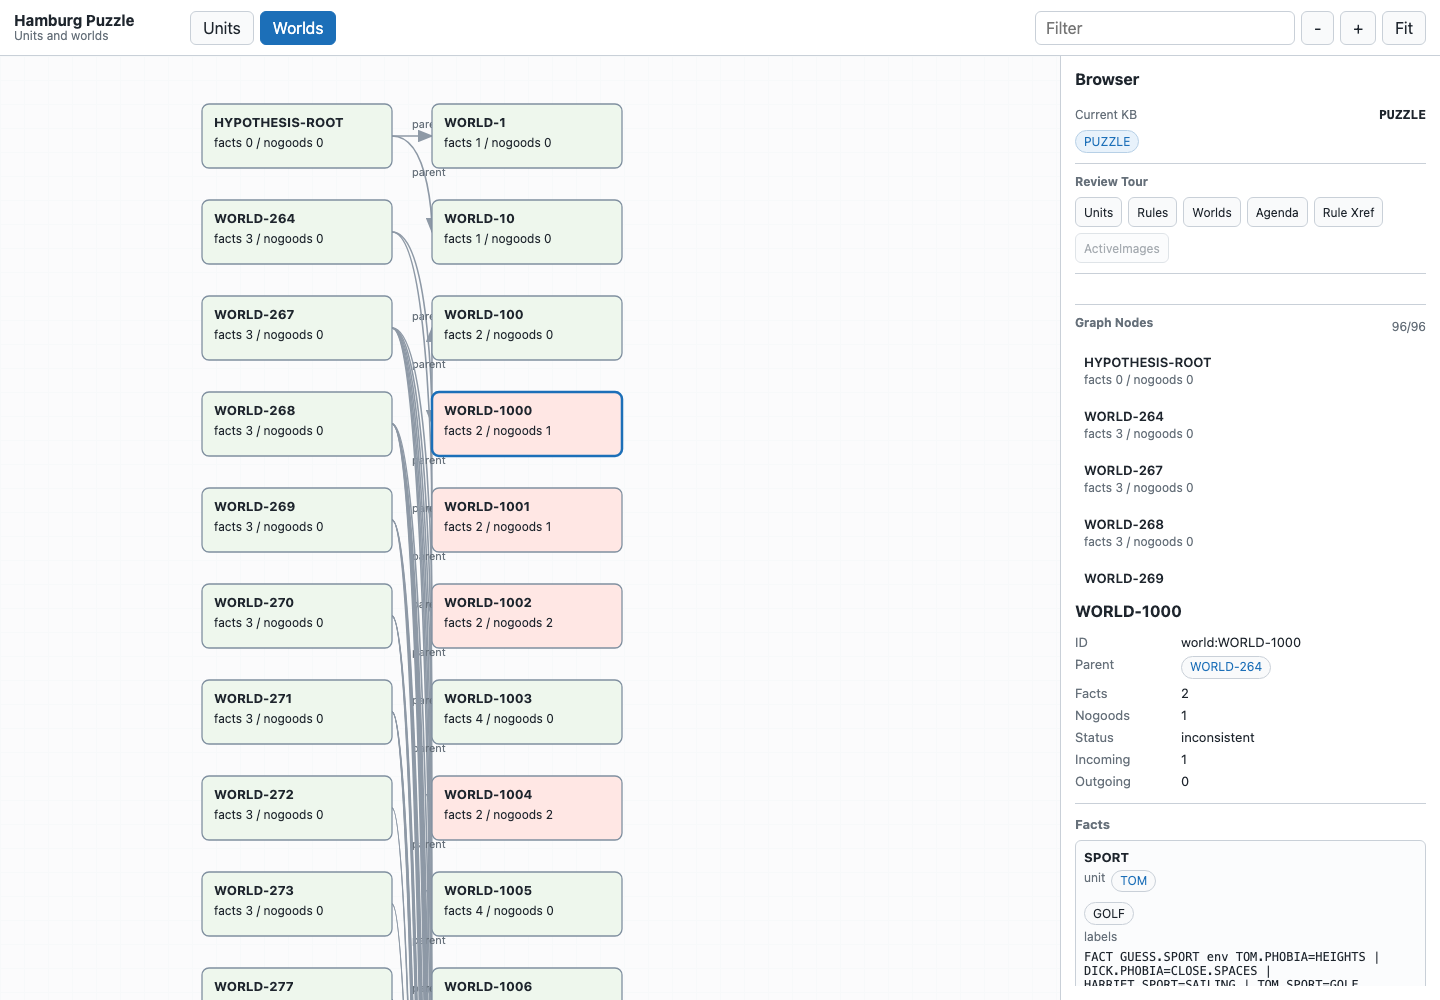
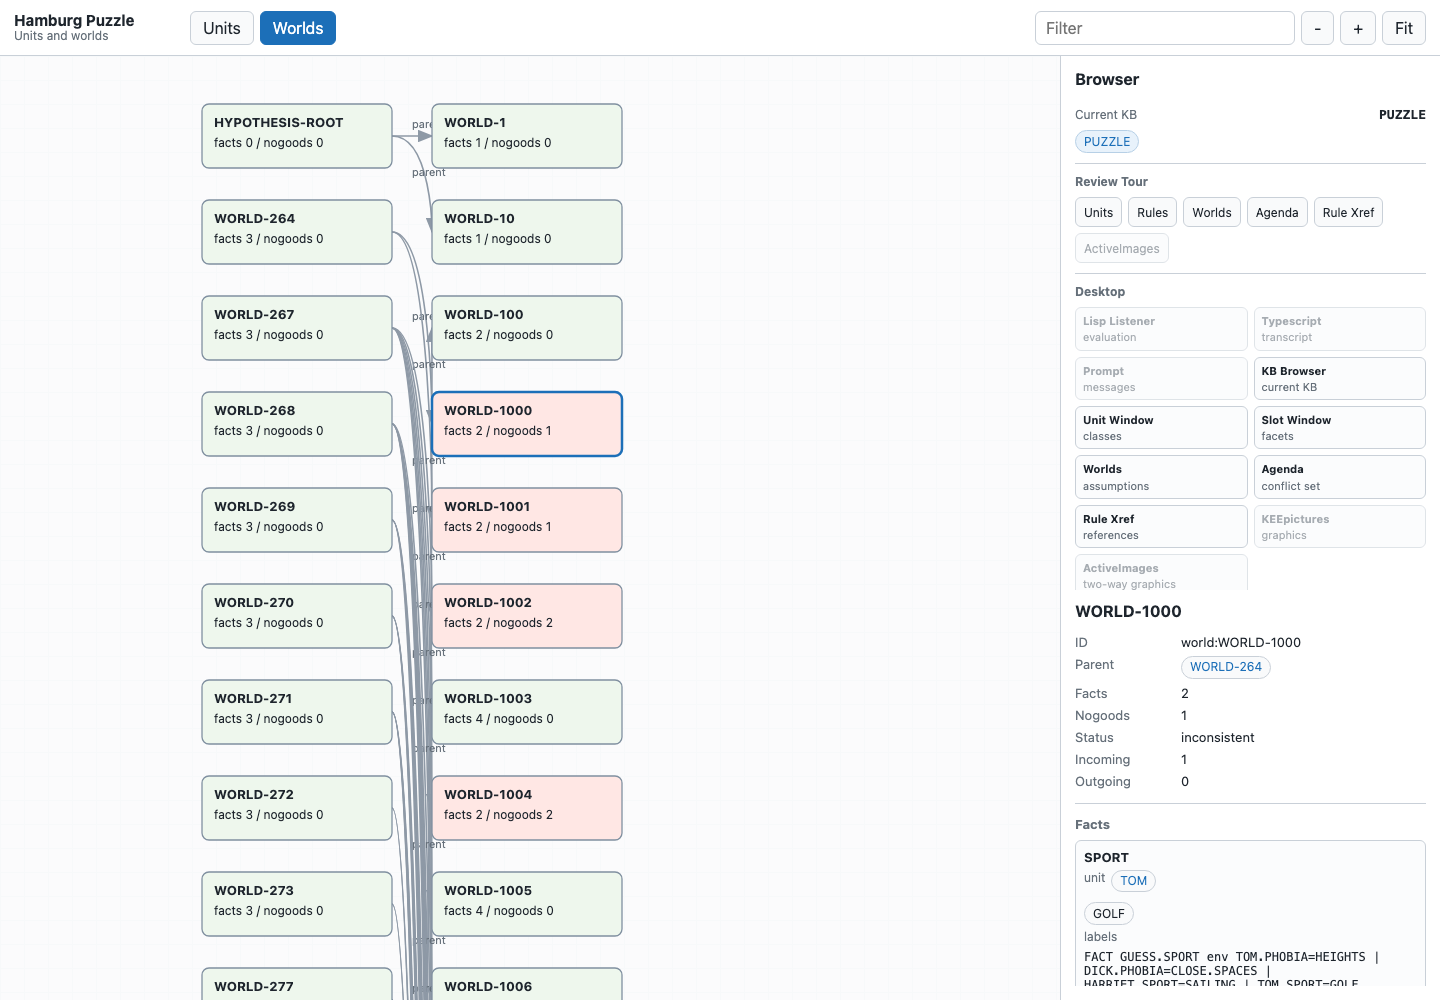
Surface KEE desktop vocabulary in viewer

Changed region(s): [[0.75, 0.279, 0.8438, 0.589], [0.875, 0.31, 0.9375, 0.558], [0.9688, 0.31, 1.0, 0.341]]

diff --git a/test/viewer-tour.spec.js b/test/viewer-tour.spec.js
@@ -9,6 +9,9 @@ test('review tour jumps to reconstructed KEE surfaces', async ({ page }) => {
   await page.goto(pathToFileURL(viewerHtml).href);
 
   await expect(page.locator('#review-tour')).toBeVisible();
+  await expect(page.locator('#desktop-roster')).toContainText('Lisp Listener');
+  await expect(page.locator('#desktop-roster')).toContainText('KEEpictures');
+  await expect(page.locator('[data-desktop-tour="units"]').first()).toBeEnabled();
   await expect(page.locator('[data-tab="worlds"]')).toHaveClass(/active/);
   await expect(page.locator('.inspector-pane h2')).toHaveText(/WORLD-/);
 
@@ -38,4 +41,5 @@ test('review tour jumps to reconstructed KEE surfaces', async ({ page }) => {
   await expect(page.locator('.inspector-pane')).toContainText('Rule Xref');
 
   await expect(page.locator('[data-review-tour="active-images"]')).toBeDisabled();
+  await expect(page.locator('[data-desktop-tour="active-images"]')).toBeDisabled();
 });

diff --git a/docs/demo.md b/docs/demo.md
@@ -10,7 +10,8 @@ selected. This is intentional: it gives reviewers a concrete first view of
 KEEworlds-style branching, assumptions, support labels, nogoods, and rule trace
 explanations instead of a blank or generic hierarchy view. The Browser pane also
 includes Review Tour controls that jump to representative units, rules, worlds,
-agenda traces, rule cross-references, and ActiveImages when available.
+agenda traces, rule cross-references, and ActiveImages when available. It also
+shows a compact Desktop roster using recovered KEE window vocabulary.
 
 ## Run
 

diff --git a/docs/gui-reconstruction.md b/docs/gui-reconstruction.md
@@ -203,6 +203,9 @@ The reconstruction now has a first trace layer for rule/world debugging:
 - the browser pane includes Review Tour controls that jump to representative
   units, rules, worlds, agenda traces, rule cross-references, and ActiveImages
   when available
+- the browser pane includes a compact Desktop roster using recovered window
+  vocabulary such as Lisp Listener, Typescript, Prompt, KEEpictures, and
+  ActiveImages
 - trace panes can filter by event kind and selected-node scope
 - trace panes can also isolate method, rule, world, and problem event families
 - trace panes include search text plus previous/next jump controls, with the

diff --git a/docs/gui-fidelity-matrix.md b/docs/gui-fidelity-matrix.md
@@ -13,7 +13,7 @@ Status meanings:
 
 | Area | Evidence | Current status | Reviewer question | Next action |
 | --- | --- | --- | --- | --- |
-| Knowledge-base browser | NASA VEG describes a KB menu, Current KB box, top-level unit menu, hierarchy browsing, and slot display. | `approximated` | Did KEE's browser feel pane-oriented, menu-oriented, graph-oriented, or some combination? | Refine viewer/browser pane layout around remembered browser workflows. |
+| Knowledge-base browser | NASA VEG describes a KB menu, Current KB box, top-level unit menu, hierarchy browsing, slot display, and broader KEE desktop/window vocabulary. | `approximated` | Did KEE's browser feel pane-oriented, menu-oriented, graph-oriented, desktop-window-oriented, or some combination? | Refine viewer/browser pane layout around remembered browser workflows. |
 | Class/member hierarchy | CLOS-on-KEE and NASA VEG expose class/subclass/member idioms and browsing. | `implemented` | Are relation names and displayed hierarchy directions right? | Add relation-specific filters and parent/child jump affordances if confirmed. |
 | Slot/facet inspection | Patent and application reports emphasize local, inherited, and combined values plus facets. | `implemented` | Are the local/inherited/combined/facet columns historically plausible? | Adjust column labels, ordering, or facet expansion after reviewer feedback. |
 | Common Windows | ASKE and local Lisp history identify Common Windows as IntelliCorp/KEE UI substrate. | `missing` | Which Common Windows concepts were visible to application developers? | Collect API names and decide whether McCLIM or browser layout should model pane/window concepts. |